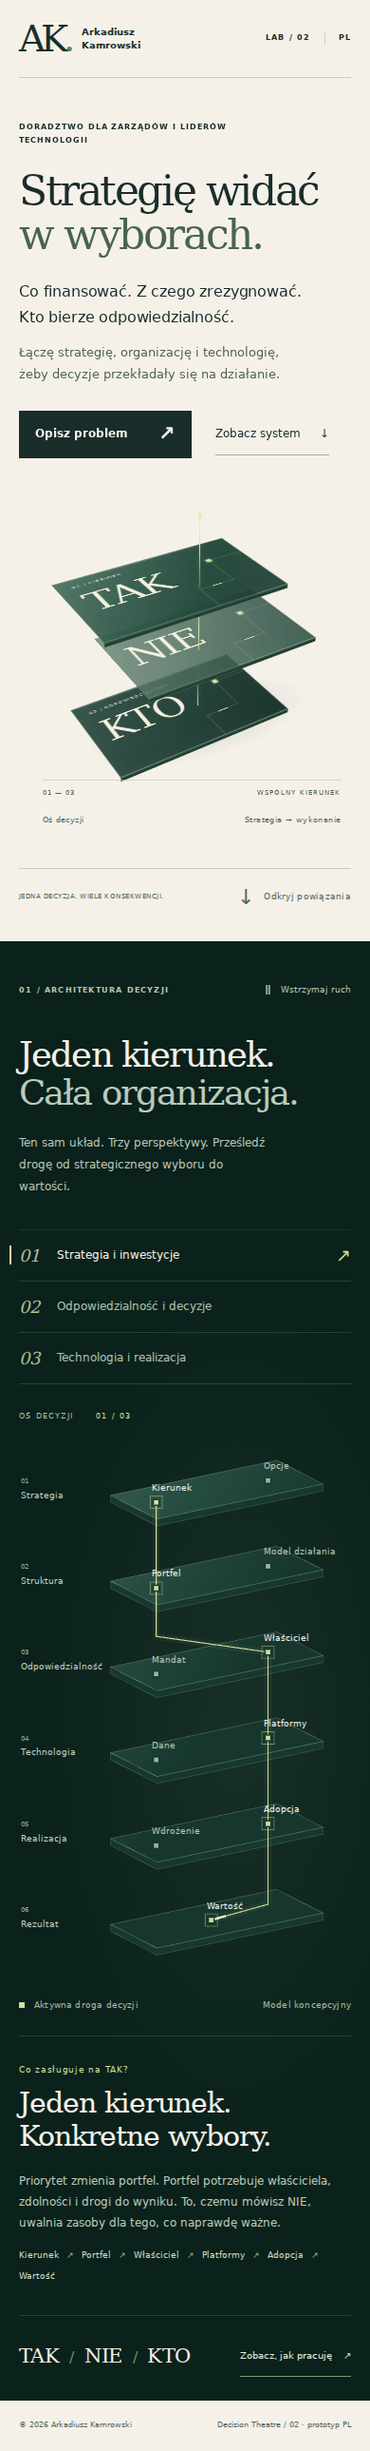
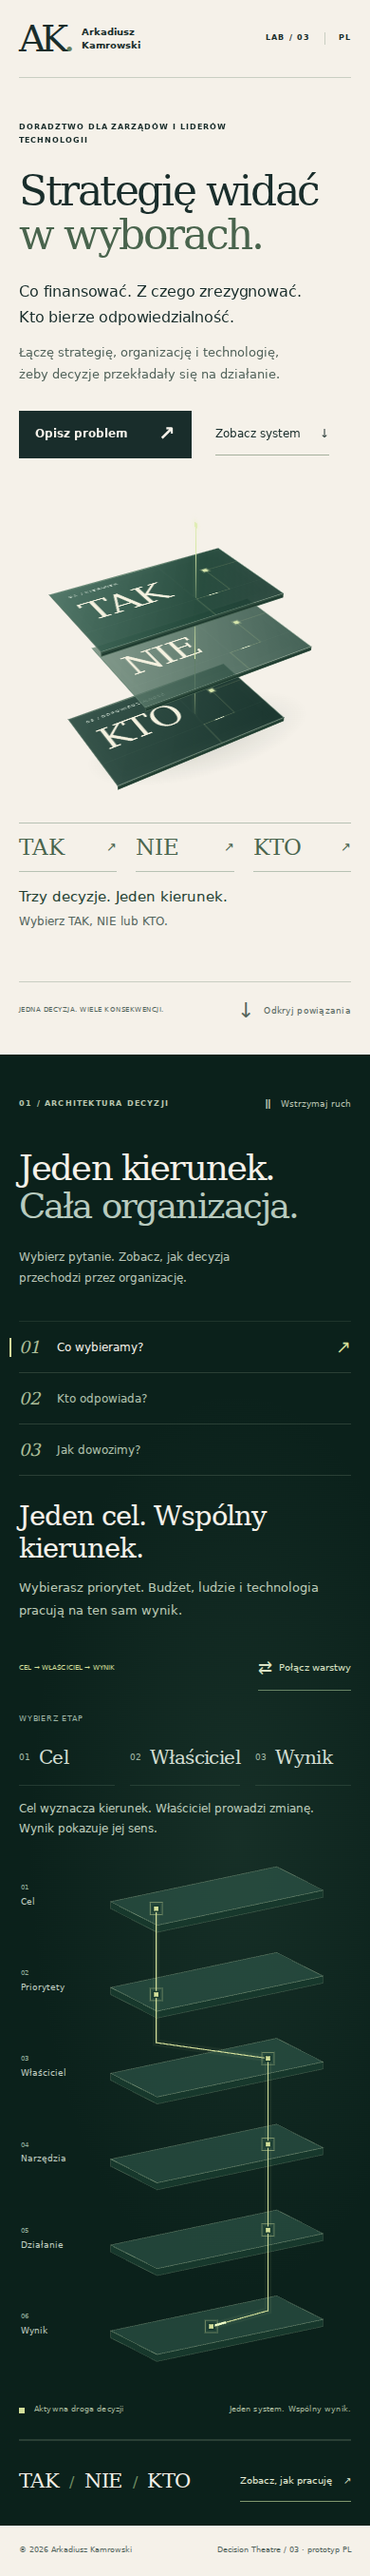
feat(lab): make decision layers interactive and simplify the story

Changed region(s): [[0.0, 0.0, 1.0, 0.993], [0.9231, 0.4965, 0.9538, 0.5275]]

diff --git a/src/styles/decision-theatre.css b/src/styles/decision-theatre.css
@@ -71,7 +71,7 @@
 [data-mode="0"] [data-route="0"] .dt-wire,[data-mode="1"] [data-route="1"] .dt-wire,[data-mode="2"] [data-route="2"] .dt-wire{transform:scaleX(1)}
 .dt-map-mobile{display:none;width:100%;height:auto;overflow:visible}
 .dt-mobile-surface{fill:url(#dt-mobile-material);stroke:#b8cba75c;stroke-width:.7}.dt-mobile-edge{fill:#17382c;stroke:#b8cba740;stroke-width:.7}
-.dt-mobile-slab{transition:transform 1.2s var(--dt-ease)}[data-mode="1"] .dt-mobile-slab:nth-of-type(even){transform:translateX(-7px)}[data-mode="2"] .dt-mobile-slab:nth-of-type(odd){transform:translateX(5px)}
+.dt-mobile-slab{transition:transform 1.2s var(--dt-ease)}
 .dt-layer-name{fill:#c2d0c4;font:11px var(--dt-sans)}.dt-layer-index{fill:#94af9d;font:9px var(--dt-sans)}
 .dt-route{opacity:0;transition:opacity .7s var(--dt-ease)}[data-mode="0"] [data-route="0"],[data-mode="1"] [data-route="1"],[data-mode="2"] [data-route="2"]{opacity:1}
 .dt-route-glow{stroke:#d3df9a;stroke-width:8;opacity:.05}.dt-route-line{stroke:#d3df9a;stroke-width:1.2;stroke-dasharray:1;stroke-dashoffset:1;transition:stroke-dashoffset 1.4s var(--dt-ease)}
@@ -81,8 +81,76 @@
 @keyframes dt-register{0%,18%,100%{transform:translate3d(var(--x),var(--y),var(--z))}48%,65%{transform:translate3d(22cqw,30cqw,calc(var(--z)*.65))}}
 @keyframes dt-camera{0%,100%{transform:translateY(10cqw) rotateX(57deg) rotateZ(-32deg)}50%{transform:translateY(10cqw) rotateX(61deg) rotateZ(-28deg)}}
 @keyframes dt-segment-flow{0%,5%{left:0;opacity:0}15%{opacity:1}80%{opacity:1}95%,100%{left:88%;opacity:0}}
-@keyframes dt-material-in{from{transform:translateZ(-14cqw);opacity:0}to{transform:translateZ(0);opacity:1}}
+@keyframes dt-material-in{from{transform:translateZ(-14cqw)}to{transform:translateZ(0)}}
 @media(prefers-reduced-motion:no-preference){.dt-hero-slab{animation:dt-register 17s var(--dt-ease) infinite;animation-delay:calc(var(--order)*.14s)}.dt-hero-world{animation:dt-camera 17s ease-in-out infinite}.dt-hero-slab .dt-solid{animation:dt-material-in 1.7s var(--dt-ease) backwards;animation-delay:calc(var(--order)*.18s)}.dt-system.dt-seen .dt-orientation{animation:dt-enter 1.4s var(--dt-ease) both}}
 @media(max-width:1100px){.dt-desktop-architecture{grid-template-columns:160px minmax(0,1fr)}.dt-layer-directory{gap:22px}.dt-layer-directory li{font-size:11px;gap:12px}.dt-layer-directory small{font-size:9px}.dt-model-system{margin-left:0}.dt-hero h1{font-size:clamp(46px,5.8vw,68px)}}
 @media(max-width:760px){.dt-hero-field{width:min(100%,480px);margin:8px auto 22px}.dt-model-hero{aspect-ratio:1/.98}.dt-world{transform:translateY(6cqw) rotateX(57deg) rotateZ(-32deg)}.dt-material-index{font-size:1.6cqw}.dt-solid-word{font-size:13cqw}.dt-object-meta{bottom:2%;font-size:7px;padding-top:9px}.dt-field-caption{margin-top:12px;font-size:8px}.dt-desktop-architecture{display:none}.dt-map-mobile{display:block;padding-top:40px;max-width:440px;margin:auto}.dt-stage-note{padding-top:0}.dt-system-stage{margin-top:28px}.dt-system h2{font-size:clamp(37px,8.3vw,58px)}.dt-hero h1{font-size:clamp(44px,10.5vw,74px)}.dt-node text{font-size:10px}.dt-layer-name{font-size:9.5px}.dt-layer-index{font-size:8px}.dt-model-hero{perspective:800px}}
 @media(prefers-reduced-motion:reduce){.dt-hero-field:hover .dt-orientation{transform:none}.dt-space-node.is-active i{box-shadow:0 0 0 .7cqw #d3df9a15}}
+
+/* 03 / Every interaction explains a decision. */
+[data-motion="static"] *,[data-motion="static"] *:before,[data-motion="static"] *:after{animation:none!important;transition:none!important}
+[data-motion="static"] .dt-interactive-only{display:none}
+.dt-hero-slab{transition:transform 1.5s var(--dt-ease)}
+.dt-hero-slab .dt-surface,.dt-system-slab .dt-surface{transition:background 1s,border-color 1s,box-shadow 1s}
+.dt-hero-slab .dt-solid-word,.dt-hero-slab .dt-material-index,.dt-hero-slab .dt-surface-drawing{transition:opacity .8s}
+.dt-hero-slab .dt-face,.dt-system-slab .dt-face{transition:background 1s,border-color 1s}
+.dt-hero-slab .dt-solid{transition:transform 1s var(--dt-ease)}
+.dt:not([data-motion="static"]) [data-hero-plane],.dt:not([data-motion="static"]) [data-plane-group]{cursor:pointer}
+.dt-hero-field:not([data-hero="all"]) .dt-hero-slab,.dt-hero-field:not([data-hero="all"]) .dt-hero-world{animation:none}
+.dt-hero-field:not([data-hero="all"]) .dt-hero-slab .dt-surface{background:linear-gradient(125deg,#7b9d7433,#20463817);border-color:#4b6b5559;box-shadow:none}
+.dt-hero-field:not([data-hero="all"]) .dt-hero-slab .dt-face{background:#234a2b0f;border-color:#79916940}
+.dt-hero-field:not([data-hero="all"]) .dt-hero-slab .dt-solid-word,.dt-hero-field:not([data-hero="all"]) .dt-hero-slab .dt-material-index{opacity:.35}
+.dt-hero-field:not([data-hero="all"]) .dt-hero-slab .dt-surface-drawing{opacity:.12}
+[data-hero="0"] [data-hero-plane="0"],[data-hero="1"] [data-hero-plane="1"],[data-hero="2"] [data-hero-plane="2"]{transform:translate3d(14cqw,34cqw,35cqw)}
+[data-hero="0"] [data-hero-plane="0"] .dt-surface,[data-hero="1"] [data-hero-plane="1"] .dt-surface,[data-hero="2"] [data-hero-plane="2"] .dt-surface{background:linear-gradient(125deg,#557e69ed,#234b3cf5)!important;border-color:#abc291b3!important;box-shadow:inset 0 0 4cqw #d5efb10f!important}
+[data-hero="0"] [data-hero-plane="0"] .dt-solid-word,[data-hero="1"] [data-hero-plane="1"] .dt-solid-word,[data-hero="2"] [data-hero-plane="2"] .dt-solid-word,[data-hero="0"] [data-hero-plane="0"] .dt-material-index,[data-hero="1"] [data-hero-plane="1"] .dt-material-index,[data-hero="2"] [data-hero-plane="2"] .dt-material-index,[data-hero="0"] [data-hero-plane="0"] .dt-surface-drawing,[data-hero="1"] [data-hero-plane="1"] .dt-surface-drawing,[data-hero="2"] [data-hero-plane="2"] .dt-surface-drawing{opacity:1!important}
+.dt-object-meta{display:none}
+.dt-model-hero{aspect-ratio:1/1}.dt-hero-interaction{margin:0 4% 0 7%}
+.dt-hero-choices{display:grid;grid-template-columns:repeat(3,1fr);gap:20px;border-top:1px solid #b7c2b4}
+.dt-hero-choices button{background:none;border:0;border-bottom:1px solid #b7c2b4;color:#49644d;display:flex;justify-content:space-between;align-items:center;min-height:52px;padding:8px 0;font:21px var(--dt-serif);text-align:left;transition:color .3s,border-color .3s}
+.dt-hero-choices button span{font:13px var(--dt-sans)}.dt-hero-choices button:hover,.dt-hero-choices [aria-pressed="true"]{border-bottom-color:#213c2e;color:#192d2b}
+.dt-hero-choices [aria-pressed="true"]{border-bottom-width:2px}
+.dt-hero-explanation{min-height:88px;padding-top:14px;color:#53645c;font-size:12px;line-height:1.7}
+.dt-hero-explanation strong{display:block;font-size:15px;color:#243f32;font-weight:500;margin-bottom:3px}
+.dt-stage-toolbar{display:flex;align-items:center;justify-content:space-between;gap:20px}
+.dt-stage-note{padding:0;font-size:9px;letter-spacing:.1em}
+.dt-connect{background:none;color:#dce4c6;border:0;border-bottom:1px solid #688465;min-height:44px;font-size:11px;white-space:nowrap;padding:8px 0;display:flex;gap:12px;align-items:center}
+.dt-connect>span:first-child{font-size:20px}.dt-connect:hover{color:#f5f1e9;border-color:#d3df9a}
+.dt-stories{min-height:0;padding:32px 0 24px}.dt-story{grid-template-columns:1fr 1fr;align-items:center;gap:7%}.dt-story h3{font-size:clamp(26px,2.5vw,36px);max-width:26ch}.dt-story-question{display:none}.dt-story-body{font-size:14px;max-width:46ch}
+.dt-system-stage{margin-top:0}.dt-desktop-architecture{grid-template-columns:235px minmax(0,1fr)}
+.dt-phase-directory{position:relative;z-index:1;padding-right:16px}.dt-phase-hint{font-size:9px;letter-spacing:.1em;text-transform:uppercase;color:#9eb5a5;margin-bottom:20px}
+.dt-phase-controls{display:flex;flex-direction:column}.dt-phase-button{position:relative;display:flex;align-items:center;gap:16px;text-align:left;background:none;border:0;border-bottom:1px solid #47625366;padding:21px 0;min-height:70px;color:#d3ded2;transition:color .3s}
+.dt-phase-button>span{font-size:10px;color:#a3b9a6}.dt-phase-button strong{font:400 25px var(--dt-serif);letter-spacing:-.03em}.dt-phase-button i{font-style:normal;margin-left:auto;font-size:15px;opacity:0;transition:opacity .3s}
+.dt-phase-button:hover,.dt-phase-button[aria-pressed="true"]{color:#e4eebc}.dt-phase-button:hover i,.dt-phase-button[aria-pressed="true"] i{opacity:1}
+.dt-phase-button[aria-pressed="true"]{border-bottom-color:#c1d594}
+.dt-phase-explanation{padding-top:24px;min-height:130px;font-size:13px;line-height:1.8;color:#bfcebd;max-width:27ch}
+.dt-system-slab .dt-etched{display:none}.dt-system-slab .dt-material-index{font-size:2cqw;letter-spacing:.08em;left:5cqw;top:7cqw;color:#c3d8c8}
+.dt-system-slab:nth-child(even) .dt-material-index{font-size:1.15cqw;top:5cqw;opacity:.6}
+.dt-space-node:not(.is-active),.dt-node:not(.is-active){opacity:0}.dt-space-node span,.dt-node text{display:none}
+.dt-system-slab .dt-surface{background:linear-gradient(120deg,#48755d8a,#214c3c99 80%);border-color:#b8cbaa66}
+[data-focus="0"] [data-plane-group="0"] .dt-surface,[data-focus="1"] [data-plane-group="1"] .dt-surface,[data-focus="2"] [data-plane-group="2"] .dt-surface{background:linear-gradient(120deg,#709377bc,#35634bb3);border-color:#ddedbccc;box-shadow:inset 0 0 5cqw #d3df9a0d}
+[data-focus="0"] [data-plane-group]:not([data-plane-group="0"]) .dt-surface,[data-focus="1"] [data-plane-group]:not([data-plane-group="1"]) .dt-surface,[data-focus="2"] [data-plane-group]:not([data-plane-group="2"]) .dt-surface{background:#284e3c20;border-color:#93b49a33;box-shadow:none}
+[data-focus="0"] [data-plane-group]:not([data-plane-group="0"]) .dt-face,[data-focus="1"] [data-plane-group]:not([data-plane-group="1"]) .dt-face,[data-focus="2"] [data-plane-group]:not([data-plane-group="2"]) .dt-face{background:#17382c25;border-color:#a5bc9333}
+.dt-system-world{--spread:1;transform:scale3d(.78,.78,.78) translateY(-6cqw) rotateX(59deg) rotateZ(-27deg) scaleZ(var(--spread));transition:transform 1.7s var(--dt-ease)}
+[data-mode="1"] .dt-system-world{transform:scale3d(.78,.78,.78) translateY(-6cqw) rotateX(55deg) rotateZ(-34deg) scaleZ(var(--spread))}
+[data-mode="2"] .dt-system-world{transform:scale3d(.78,.78,.78) translateY(-6cqw) rotateX(62deg) rotateZ(-22deg) scaleZ(var(--spread))}
+[data-view="joined"] .dt-system-world{--spread:.24}
+[data-view="joined"] .dt-system-slab .dt-surface{background:linear-gradient(120deg,#4f775d44,#1b463737);border-color:#d3df9a88}
+[data-view="joined"] .dt-system-slab .dt-face{background:#28463238}
+.dt-mobile-slab,.dt-map-mobile .dt-node{transition:transform 1.7s var(--dt-ease)}
+
+.dt-mobile-routes{opacity:0;transition:opacity .7s}.dt-mobile-routes[data-mobile-view="separate"]{opacity:1}
+[data-view="joined"] .dt-mobile-routes[data-mobile-view="separate"]{opacity:0}[data-view="joined"] .dt-mobile-routes[data-mobile-view="joined"]{opacity:1}
+[data-view="joined"] .dt-mobile-slab,[data-view="joined"] .dt-map-mobile .dt-node{transform:translateY(var(--join-y))}
+.dt-mobile-surface{fill:#315b4d99;transition:fill 1s,stroke 1s}
+[data-focus="0"] .dt-mobile-slab[data-plane-group="0"] .dt-mobile-surface,[data-focus="1"] .dt-mobile-slab[data-plane-group="1"] .dt-mobile-surface,[data-focus="2"] .dt-mobile-slab[data-plane-group="2"] .dt-mobile-surface{fill:#5c8164b3;stroke:#d3df9a}
+[data-focus="0"] .dt-mobile-slab:not([data-plane-group="0"]) .dt-mobile-surface,[data-focus="1"] .dt-mobile-slab:not([data-plane-group="1"]) .dt-mobile-surface,[data-focus="2"] .dt-mobile-slab:not([data-plane-group="2"]) .dt-mobile-surface{fill:#25483230}
+@media(hover:hover) and (prefers-reduced-motion:no-preference){.dt-hero-slab:hover .dt-solid{transform:translateZ(2cqw)}.dt-system-slab:hover .dt-surface{border-color:#d3df9acc}}
+@media(max-width:1100px){.dt-desktop-architecture{grid-template-columns:190px minmax(0,1fr)}.dt-phase-button strong{font-size:22px}.dt-phase-button{gap:12px}.dt-phase-explanation{font-size:12px}.dt-hero-explanation strong{font-size:14px}}
+@media(max-width:760px){.dt-hero-field{margin-top:14px;margin-bottom:8px}.dt-model-hero{aspect-ratio:1/1.02}.dt-hero-interaction{margin-inline:0}.dt-hero-choices{gap:20px}.dt-hero-choices button{font-size:23px;min-height:51px}.dt-hero-explanation{min-height:86px}.dt-hero-explanation strong{font-size:15px}.dt-hero h1{font-size:clamp(44px,10.5vw,74px)}.dt-stories{min-height:180px;padding:25px 0 20px}.dt-story h3{font-size:29px;max-width:24ch}.dt-story-body{font-size:13px;margin-top:12px}.dt-stage-toolbar{gap:12px}.dt-stage-note{font-size:7px;letter-spacing:.02em}.dt-connect{font-size:10px;gap:7px}.dt-connect>span:first-child{font-size:18px}.dt-desktop-architecture{display:block}.dt-model-system{display:none}.dt-phase-directory{padding:24px 0 0}.dt-phase-hint{font-size:8px;margin-bottom:5px}.dt-phase-controls{display:grid;grid-template-columns:repeat(3,1fr);gap:16px}.dt-phase-button{min-height:58px;padding:12px 0;gap:9px}.dt-phase-button strong{font-size:20px}.dt-phase-button>span{font-size:9px}.dt-phase-button i{display:none}.dt-phase-explanation{padding-top:14px;min-height:77px;max-width:40ch;font-size:12px}.dt-map-mobile{padding-top:8px;max-width:440px}.dt-stage-legend{font-size:8px}}
+@media(max-width:360px){.dt-phase-controls{gap:10px}.dt-phase-button{gap:7px}.dt-phase-button strong{font-size:17px}.dt-stage-note{max-width:15ch;line-height:1.5}.dt-hero-explanation{font-size:11px}}
+@media(prefers-reduced-motion:reduce){.dt-hero-slab:hover .dt-solid{transform:none}}
+
+.dt-system-slab:nth-child(even) .dt-material-index{display:none}.dt-label-joined{display:none}[data-view="joined"] .dt-label-full{display:none}[data-view="joined"] .dt-label-joined{display:inline}[data-view="joined"] [data-mobile-minor="true"] text{display:none}
+
+.dt-mobile-labels{opacity:0;pointer-events:none;transition:opacity .5s}.dt-mobile-labels[data-mobile-view="separate"]{opacity:1;pointer-events:auto}[data-view="joined"] .dt-mobile-labels[data-mobile-view="separate"]{opacity:0;pointer-events:none}[data-view="joined"] .dt-mobile-labels[data-mobile-view="joined"]{opacity:1;pointer-events:auto}

diff --git a/src/scripts/decision-theatre.ts b/src/scripts/decision-theatre.ts
@@ -3,14 +3,17 @@ if (root) {
   const system = root.querySelector<HTMLElement>('[data-system]')!;
   const buttons = [...root.querySelectorAll<HTMLButtonElement>('[data-mode-button]')];
   const stories = [...root.querySelectorAll<HTMLElement>('[data-story]')];
+  const phases = [...root.querySelectorAll<HTMLButtonElement>('[data-phase]')];
+  const hero = root.querySelector<HTMLElement>('[data-hero]')!;
+  const heroButtons = [...root.querySelectorAll<HTMLButtonElement>('[data-hero-choice]')];
   const reduced = matchMedia('(prefers-reduced-motion: reduce)');
   const toggle = root.querySelector<HTMLButtonElement>('[data-motion-toggle]')!;
   const label = root.querySelector<HTMLElement>('[data-motion-label]')!;
+  const connect = root.querySelector<HTMLButtonElement>('[data-connect]')!;
   let userPaused = false;
 
   function syncMotion() {
-    const paused = userPaused || reduced.matches;
-    root!.dataset.motion = paused ? 'paused' : 'running';
+    root!.dataset.motion = userPaused || reduced.matches ? 'paused' : 'running';
     toggle.hidden = reduced.matches;
     toggle.setAttribute('aria-pressed', String(userPaused));
     label.textContent = userPaused ? 'Wznów ruch' : 'Wstrzymaj ruch';
@@ -19,33 +22,65 @@ if (root) {
   reduced.addEventListener('change', syncMotion);
   syncMotion();
 
-  const choose = (index: number) => {
+  function focusPhase(index: string) {
+    system.dataset.focus = index;
+    phases.forEach((button, i) => button.setAttribute('aria-pressed', String(i === Number(index))));
+    root!.querySelector<HTMLElement>('[data-phase-intro]')!.hidden = index !== 'all';
+    root!.querySelectorAll<HTMLElement>('[data-phase-copy]').forEach(copy => {
+      copy.hidden = copy.dataset.phaseCopy !== `${system.dataset.mode}-${index}`;
+    });
+  }
+  function chooseHero(index: number) {
+    hero.dataset.hero = String(index);
+    heroButtons.forEach((button, i) => button.setAttribute('aria-pressed', String(i === index)));
+    hero.querySelectorAll<HTMLElement>('[data-hero-story]').forEach(story => {
+      story.hidden = story.dataset.heroStory !== String(index);
+    });
+  }
+  function choose(index: number) {
     system.dataset.mode = String(index);
     buttons.forEach((button, i) => button.setAttribute('aria-pressed', String(i === index)));
     stories.forEach((story, i) => { story.hidden = i !== index; });
-    const counter = root!.querySelector('[data-mode-count]');
-    if (counter) counter.textContent = `0${index + 1} / 03`;
     const path = buttons[index]!.dataset.path!.split(',').map(Number);
-    system.querySelectorAll<SVGElement>('[data-node]').forEach(node => {
+    system.querySelectorAll<HTMLElement>('[data-node]').forEach(node => {
       node.classList.toggle('is-active', path.includes(Number(node.dataset.node)));
     });
-  };
-  buttons.forEach((button, index) => {
-    button.disabled = false;
-    button.addEventListener('click', () => choose(index));
-    button.addEventListener('keydown', event => {
-      const keys = ['ArrowRight', 'ArrowLeft', 'ArrowDown', 'ArrowUp', 'Home', 'End'];
-      if (!keys.includes(event.key)) return;
-      event.preventDefault();
-      const next = event.key === 'Home' ? 0 : event.key === 'End' ? buttons.length - 1 :
-        (index + (['ArrowRight', 'ArrowDown'].includes(event.key) ? 1 : -1) + buttons.length) % buttons.length;
-      buttons[next]!.focus();
-      choose(next);
+    focusPhase('all');
+  }
+  function enableGroup(group: HTMLButtonElement[], select: (index: number) => void) {
+    group.forEach((button, index) => {
+      button.disabled = false;
+      button.addEventListener('click', () => select(index));
+      button.addEventListener('keydown', event => {
+        if (!['ArrowRight', 'ArrowLeft', 'ArrowDown', 'ArrowUp', 'Home', 'End'].includes(event.key)) return;
+        event.preventDefault();
+        const next = event.key === 'Home' ? 0 : event.key === 'End' ? group.length - 1 :
+          (index + (['ArrowRight', 'ArrowDown'].includes(event.key) ? 1 : -1) + group.length) % group.length;
+        group[next]!.focus();
+        select(next);
+      });
     });
-  });
+  }
+  enableGroup(buttons, choose);
+  enableGroup(heroButtons, chooseHero);
+  enableGroup(phases, index => focusPhase(String(index)));
   choose(0);
+  connect.disabled = false;
+  connect.addEventListener('click', () => {
+    const joined = system.dataset.view !== 'joined';
+    system.dataset.view = joined ? 'joined' : 'separate';
+    connect.setAttribute('aria-pressed', String(joined));
+    root!.querySelector('[data-connect-label]')!.textContent = joined ? 'Rozdziel warstwy' : 'Połącz warstwy';
+  });
+  // The decorative 3D surfaces mirror the adjacent native controls for pointer users.
+  root.addEventListener('click', event => {
+    if (!(event.target instanceof Element)) return;
+    const plane = event.target.closest<HTMLElement>('[data-hero-plane]');
+    const phase = event.target.closest<HTMLElement>('[data-plane-group]');
+    if (plane) chooseHero(Number(plane.dataset.heroPlane));
+    if (phase) focusPhase(phase.dataset.planeGroup!);
+  });
 
-  // Only animate visible scenes; CSS has a complete no-JS/default appearance.
   const scenes = [...root.querySelectorAll<HTMLElement>('[data-scene]')];
   if ('IntersectionObserver' in window) {
     const observer = new IntersectionObserver(entries => entries.forEach(entry => {

diff --git a/src/content/decision-theatre.ts b/src/content/decision-theatre.ts
@@ -3,11 +3,17 @@
 export const theatre = {
   pl: {
     modes: [
-      { name: 'Strategia i inwestycje', question: 'Co zasługuje na TAK?', title: 'Jeden kierunek. Konkretne wybory.', body: 'Priorytet zmienia portfel. Portfel potrzebuje właściciela, zdolności i drogi do wyniku. To, czemu mówisz NIE, uwalnia zasoby dla tego, co naprawdę ważne.', trace: ['Kierunek', 'Portfel', 'Właściciel', 'Platformy', 'Adopcja', 'Wartość'], path: [0, 2, 5, 7, 9, 10] },
-      { name: 'Odpowiedzialność i decyzje', question: 'Kto ma prawo zdecydować?', title: 'Mandat, który dociera do działania.', body: 'Odpowiedzialność działa wtedy, gdy właściciel wyniku ma prawo rozstrzygać kompromisy. Od modelu działania po decyzje zespołów.', trace: ['Kierunek', 'Model działania', 'Mandat', 'Dane', 'Adopcja', 'Wartość'], path: [0, 3, 4, 6, 9, 10] },
-      { name: 'Technologia i realizacja', question: 'Co musi zadziałać razem?', title: 'Od możliwości do wykorzystania.', body: 'Technologia tworzy możliwość. Właściciel przekłada ją na zmianę sposobu pracy. Wartość pojawia się dopiero wtedy, gdy ludzie tę zmianę wykorzystują.', trace: ['Kierunek', 'Model działania', 'Właściciel', 'Dane', 'Platformy', 'Wdrożenie', 'Adopcja', 'Wartość'], path: [0, 3, 5, 6, 7, 8, 9, 10] },
+      { name: 'Co wybieramy?', question: 'Strategia i inwestycje', title: 'Jeden cel. Wspólny kierunek.', body: 'Wybierasz priorytet. Budżet, ludzie i technologia pracują na ten sam wynik.', steps: ['Wybierz cel. Finansuj to, co go wspiera.', 'Wskaż osobę, która połączy ludzi i zasoby.', 'Sprawdź, czy klient odczuwa zmianę.'], trace: ['Kierunek', 'Portfel', 'Właściciel', 'Platformy', 'Adopcja', 'Wartość'], path: [0, 2, 5, 7, 9, 10] },
+      { name: 'Kto odpowiada?', question: 'Odpowiedzialność i decyzje', title: 'Jedna osoba odpowiada za wynik.', body: 'Właściciel zna cel, ma prawo decydować i może usunąć przeszkody.', steps: ['Ustal, za jaki wynik odpowiada właściciel.', 'Daj mu prawo do podejmowania decyzji.', 'Rozliczaj efekt, nie samą listę zadań.'], trace: ['Kierunek', 'Model działania', 'Mandat', 'Dane', 'Adopcja', 'Wartość'], path: [0, 3, 4, 6, 9, 10] },
+      { name: 'Jak dowozimy?', question: 'Technologia i realizacja', title: 'Zmiana działa w codziennej pracy.', body: 'Łączysz ludzi, procesy i technologię. Wartość pojawia się, gdy rozwiązanie jest używane.', steps: ['Zacznij od potrzeby, nie od narzędzia.', 'Połącz odpowiedzialność z technologią.', 'Doprowadź zmianę do codziennego użycia.'], trace: ['Kierunek', 'Model działania', 'Właściciel', 'Dane', 'Platformy', 'Wdrożenie', 'Adopcja', 'Wartość'], path: [0, 3, 5, 6, 7, 8, 9, 10] },
     ],
-    layers: ['Strategia', 'Struktura', 'Odpowiedzialność', 'Technologia', 'Realizacja', 'Rezultat'],
+    hero: [
+      {word: 'TAK', title: 'Wybierasz priorytet.', body: 'Na nim skupiasz budżet i uwagę.'},
+      {word: 'NIE', title: 'Uwalniasz zasoby.', body: 'Odkładasz to, co nie wspiera celu.'},
+      {word: 'KTO', title: 'Wskazujesz właściciela.', body: 'Jedna osoba odpowiada za wynik.'},
+    ],
+    phases: ['Cel', 'Właściciel', 'Wynik'],
+    layers: ['Cel', 'Priorytety', 'Właściciel', 'Narzędzia', 'Działanie', 'Wynik'],
     nodes: ['Kierunek', 'Opcje', 'Portfel', 'Model działania', 'Mandat', 'Właściciel', 'Dane', 'Platformy', 'Wdrożenie', 'Adopcja', 'Wartość'],
   },
 };

diff --git a/tests/decision-theatre.spec.ts b/tests/decision-theatre.spec.ts
@@ -56,5 +56,48 @@ test('Decision Theatre: complete readable fallback without JavaScript', async ({
   await expect(page.locator('.dt-nojs')).toBeVisible();
   await expect(page.locator('[data-mode-button="0"]')).toBeDisabled();
   await expect(page.locator('[data-motion-toggle]')).toBeHidden();
+  expect(await page.evaluate(() => document.getAnimations().length)).toBe(0);
+  await expect(page.locator('[data-hero-choice]').first()).toBeDisabled();
+  await expect(page.locator('[data-connect]')).toBeDisabled();
   await context.close();
+});
+
+
+test('Decision Theatre: direct choices, phase focus and joining layers', async ({ page }) => {
+  await page.goto('/lab/decision-theatre');
+  const hero = page.locator('[data-hero-choice]');
+  await hero.first().focus();
+  for (let i = 0; i < 3; i++) {
+    if (i) await page.keyboard.press('ArrowRight');
+    else await page.keyboard.press('Enter');
+    await expect(hero.nth(i)).toHaveAttribute('aria-pressed', 'true');
+    await expect(page.locator(`[data-hero-story="${i}"]`)).toBeVisible();
+    await expect(page.locator('[data-hero]')).toHaveAttribute('data-hero', String(i));
+  }
+  const phase = page.locator('[data-phase]');
+  await phase.first().focus();
+  await page.keyboard.press('End');
+  await expect(phase.nth(2)).toBeFocused();
+  await expect(page.locator('[data-system]')).toHaveAttribute('data-focus', '2');
+  await expect(page.locator('[data-phase-copy="0-2"]')).toBeVisible();
+  await page.locator('[data-mode-button="2"]').click();
+  await expect(page.locator('[data-system]')).toHaveAttribute('data-focus', 'all');
+  await phase.nth(1).click();
+  await expect(page.locator('[data-phase-copy="2-1"]')).toBeVisible();
+  const before = await page.locator('.dt-system-world').evaluate(el => getComputedStyle(el).transform);
+  await page.getByRole('button', { name: 'Połącz warstwy' }).click();
+  await expect(page.locator('[data-system]')).toHaveAttribute('data-view', 'joined');
+  await expect(page.locator('[data-connect]')).toHaveAttribute('aria-pressed', 'true');
+  await expect.poll(() => page.locator('.dt-system-world').evaluate(el => getComputedStyle(el).transform)).not.toBe(before);
+  if (page.viewportSize()!.width < 760) {
+    await page.locator('.dt-map-mobile').evaluate(async el => {
+      await Promise.all(el.getAnimations({ subtree: true }).filter(a => a instanceof CSSTransition).map(a => a.finished));
+    });
+    const positions = await page.locator('.dt-mobile-slab').evaluateAll(nodes => nodes.map(node => node.getBoundingClientRect().y));
+    for (let i = 1; i < positions.length; i++) expect(positions[i]! - positions[i-1]!).toBeGreaterThan(20);
+  }
+  const audit = await new AxeBuilder({ page }).withTags(['wcag2a', 'wcag2aa', 'wcag21aa', 'wcag22aa']).analyze();
+  expect(audit.violations).toEqual([]);
+  await page.getByRole('button', { name: 'Rozdziel warstwy' }).click();
+  await expect(page.locator('[data-system]')).toHaveAttribute('data-view', 'separate');
 });

diff --git a/docs/DECISION_THEATRE.md b/docs/DECISION_THEATRE.md
@@ -5,36 +5,35 @@ Base: `545d873` (main)
 Route: `/lab/decision-theatre`  
 Scope: two sections, PL-first. No merge, staging promotion or production deployment.
 
-## Creative direction — 02 / Oś decyzji
+## Creative direction — 03 / Zobacz konsekwencję
 
-The second direction follows the visual review: simple rectangular solids,
-precise depth, translucent pine surfaces and light that connects the layers.
-The organic ribbons and curved topology from the first version have been removed.
-The visual impact now comes from material, perspective, occlusion and motion.
-
-The hero presents TAK / NIE / KTO as three thin rectangular solids. Over a quiet
-17-second cycle they separate and register onto a shared decision axis. Real CSS
-3D transforms expose the front and side faces. Lighting stays consistent with
-the material; the camera changes angle only slightly.
-
-The dark System shows six organizational layers. Selecting a perspective moves
-the same planes, adjusts the camera and redraws a rectilinear route through the
-relevant decision points. A flat directory keeps layer names and selected nodes
-readable independently of perspective. The map is a conceptual organization,
-not a model of a building.
+The approved rectilinear direction is retained. This iteration makes the scene
+interactive and much easier to read: **Cel → Właściciel → Wynik**. The six
+organizational layers remain the underlying structure, grouped into three
+plain-language stages. Only the active route is shown.
 
 ## Experience
 
-- Hero: existing thesis and CTA logic, typographic hierarchy, three solids and
-  a single axis connecting direction, focus and responsibility.
-- System: strategy/investment, ownership/decision rights, technology/execution.
-  Planes, signal path, selected nodes, directory and explanation change together.
-- Mobile: 3D hero, dedicated SVG cross-section of straight rectangular prisms,
-  vertical controls and a concise text trace. No scaled-down desktop system.
-- Motion: staged entrance, 17-second alignment cycle, depth changes, path drawing,
-  controlled signals and a restrained hover response. No scroll hijacking.
-- Accessibility: keyboard navigation, visible focus, motion pause, reduced motion,
-  native pressed buttons, text equivalents and a readable no-JS fallback.
+- **Hero choices:** selecting TAK / NIE / KTO brings that solid through the other,
+  now translucent layers and reveals a one-sentence consequence. The large native
+  controls work with touch, keyboard and pointer. The decorative solids mirror
+  the same actions for pointer users.
+- **Three questions:** Co wybieramy? Kto odpowiada? Jak dowozimy? Each changes the
+  same organization and its route. A short explanation appears above the scene.
+- **Choose a stage:** Cel, Właściciel or Wynik highlights a pair of layers and
+  explains its role in the current perspective. Changing perspective restores
+  the full context.
+- **Join / separate:** Połącz warstwy compresses the depth of the entire model,
+  including its connectors. Transparent materials expose the overlaps. The action
+  is reversible, with stable layout and no scroll manipulation.
+- **Mobile:** the SVG cross-section has its own compact joined geometry; labels
+  keep their size and are never squashed with the model. The phase controls sit
+  above it.
+- **Accessibility:** native pressed buttons, arrow/Home/End navigation in all
+  three control groups, visible focus, live explanations, motion pause and
+  reduced motion. Without JS the diagram remains static and readable.
+- **Clarity:** inactive nodes and small point labels are hidden; the perspective
+  text, simple stage labels and plain-language explanations carry the meaning.
 
 ## Implementation boundaries
 
@@ -80,8 +79,8 @@ It is a review artifact, not a deployed production route.
 | Accessible modes | PASS | All three modes, desktop and mobile; zero automated axe WCAG A/AA violations |
 | Keyboard and focus | PASS | Arrow keys, Home/End, native activation; visible focus |
 | Motion controls | PASS | Pause/resume, reduced motion, offscreen/background suspension |
-| No JavaScript | PASS | Initial system and explanatory details remain readable; unavailable controls disabled |
-| Loading budget | PASS | Approximately 1.7 KiB lab JS, no new dependencies or font/image requests |
+| No JavaScript | PASS | Static initial system and explanations remain readable; unavailable controls disabled |
+| Loading budget | PASS | Approximately 2.7 KiB lab JS, no new dependencies or font/image requests |
 | Prototype indexing | PASS | Noindex and sitemap exclusion |
 | Forms / analytics | PASS | No new forms or analytics; existing CTA routes preserved |
 | Cross-browser matrix | CI gate | Chromium, Firefox, WebKit and mobile Chromium; see the current PR checks for the latest result |
@@ -102,10 +101,17 @@ It is a review artifact, not a deployed production route.
 - **P2 / explanatory clarity:** the technology route originally looked too close
   to the strategy route. It now includes both data/platforms and deployment/adoption.
 
+- **P2 / progressive enhancement:** without JS, continuous decorative motion had
+  no in-page pause control. The server-rendered state now disables all animation;
+  JS enables motion only once the controls are ready.
+- **P2 / clarity:** explanatory text followed a dense map. The explanation now
+  precedes a simplified route; selecting a stage provides one relevant detail.
+
 ### Next review decision
 
 Compare the new rectilinear standalone prototype with the existing home at desktop and mobile
-sizes. Validate that TAK / NIE / KTO is understood within five seconds and that
-each selected path helps explain a real executive decision. If approved, tune
+sizes. Validate that visitors can explain TAK / NIE / KTO and Cel / Właściciel / Wynik
+within five seconds, then use the controls without instruction. Check that the
+joined state helps explain interdependence. If approved, tune
 the chosen visual language, complete EN, validate physical Safari/reduced motion,
 and plan a separate home integration. Do not merge this lab as a home redesign.
